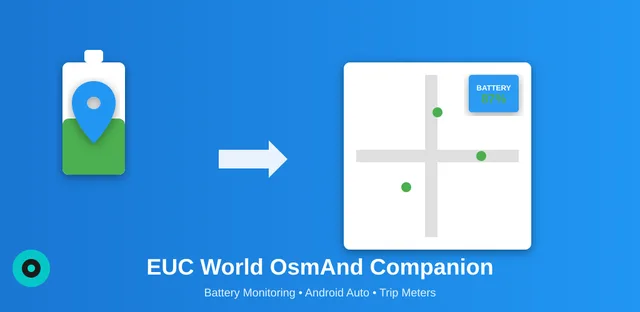
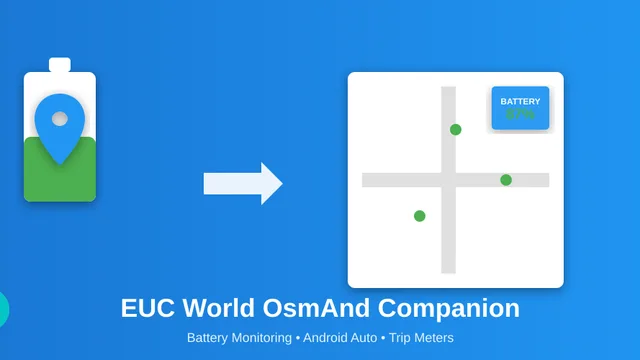
fix: normalise band images to 16:9 and record real sizes

diff --git a/a42r_site/images.py b/a42r_site/images.py
@@ -4,7 +4,7 @@ from __future__ import annotations
 from pathlib import Path
 from xml.sax.saxutils import escape
 
-from PIL import Image
+from PIL import Image, ImageOps
 
 _BASE = "/home/philg/src/AndroidStudioProjects/"
 
@@ -19,33 +19,56 @@ IMAGE_SOURCES: dict[str, str] = {
 }
 
 
-def _flatten(im: Image.Image) -> Image.Image:
-    """Convert to RGB, compositing any transparency onto white."""
+def _flatten(im: Image.Image, bg: str = "#ffffff") -> Image.Image:
+    """Convert to RGB, compositing any transparency onto bg."""
     if im.mode in ("RGBA", "LA") or (im.mode == "P" and "transparency" in im.info):
         rgba = im.convert("RGBA")
-        bg = Image.new("RGB", rgba.size, "white")
+        bg = Image.new("RGB", rgba.size, bg)
         bg.paste(rgba, mask=rgba.getchannel("A"))
         return bg
     return im.convert("RGB")
 
 
-def _fit(im: Image.Image, width: int) -> Image.Image:
-    if im.width <= width:
-        return im.copy()
-    height = max(1, round(im.height * width / im.width))
-    return im.resize((width, height), Image.LANCZOS)
+def _to_16x9(im: Image.Image, bg: str) -> Image.Image:
+    """Normalise to 16:9: centre-crop landscape, letterbox portrait on bg."""
+    w, h = im.size
+    if w / h >= 1.2:
+        if w * 9 > h * 16:  # wider than 16:9: crop width
+            cw = round(h * 16 / 9)
+            left = (w - cw) // 2
+            return im.crop((left, 0, left + cw, h))
+        ch = round(w * 9 / 16)  # between 1.2 and 16:9: crop height
+        top = (h - ch) // 2
+        return im.crop((0, top, w, top + ch))
+    cw = round(h * 16 / 9)
+    canvas = Image.new("RGB", (cw, h), bg)
+    canvas.paste(im, ((cw - w) // 2, 0))
+    return canvas
 
 
-def import_image(src: Path, dest_dir: Path, base: str) -> None:
+def tint(accent: str, amount: float = 0.15) -> str:
+    """Mix `amount` of accent into white, returned as #rrggbb."""
+    rgb = [int(accent[i : i + 2], 16) for i in (1, 3, 5)]
+    return "#" + "".join(f"{round(255 * (1 - amount) + c * amount):02x}" for c in rgb)
+
+
+def import_image(
+    src: Path, dest_dir: Path, base: str, bg: str = "#ffffff"
+) -> dict[str, list[int]]:
     dest_dir = Path(dest_dir)
     dest_dir.mkdir(parents=True, exist_ok=True)
     with Image.open(src) as opened:
-        im = _flatten(opened)
-    small = _fit(im, 640)
-    large = _fit(im, 1280)
+        im = _flatten(ImageOps.exif_transpose(opened), bg)
+    band = _to_16x9(im, bg)
+    lw = min(1280, band.width)
+    lw -= lw % 2
+    lh = round(lw * 9 / 16)
+    small = band.resize((640, 360), Image.LANCZOS)
+    large = band if band.size == (lw, lh) else band.resize((lw, lh), Image.LANCZOS)
     small.save(dest_dir / f"{base}-640.webp", "WEBP", quality=82)
     large.save(dest_dir / f"{base}-1280.webp", "WEBP", quality=82)
     small.save(dest_dir / f"{base}-640.jpg", "JPEG", quality=85, progressive=True)
+    return {"640": [640, 360], "1280": [lw, lh]}
 
 
 def _initials(name: str) -> str:

diff --git a/tests/test_images.py b/tests/test_images.py
@@ -1,26 +1,46 @@
+import json
 from pathlib import Path
 
 from PIL import Image
 
 from a42r_site.data import load_site
-from a42r_site.images import import_image, monogram_svg
+from a42r_site.images import import_image, monogram_svg, tint
 
 
 def test_import_image_writes_three_sizes(tmp_path):
     src = tmp_path / "s.png"
     Image.new("RGB", (2000, 1000), "red").save(src)
-    import_image(src, tmp_path / "out", "x")
-    assert Image.open(tmp_path / "out/x-640.webp").size == (640, 320)
-    assert Image.open(tmp_path / "out/x-1280.webp").size == (1280, 640)
-    assert (tmp_path / "out/x-640.jpg").exists()
+    sizes = import_image(src, tmp_path / "out", "x")
+    assert Image.open(tmp_path / "out/x-640.webp").size == (640, 360)
+    assert Image.open(tmp_path / "out/x-1280.webp").size == (1280, 720)
+    assert Image.open(tmp_path / "out/x-640.jpg").size == (640, 360)
+    assert sizes == {"640": [640, 360], "1280": [1280, 720]}
 
 
 def test_import_never_upscales(tmp_path):
     src = tmp_path / "s.png"
     Image.new("RGB", (1024, 500), "red").save(src)
-    import_image(src, tmp_path / "out", "x")
-    assert Image.open(tmp_path / "out/x-1280.webp").size == (1024, 500)
-    assert Image.open(tmp_path / "out/x-640.webp").size == (640, 312)
+    sizes = import_image(src, tmp_path / "out", "x")
+    w, h = Image.open(tmp_path / "out/x-1280.webp").size
+    assert w <= 1024 and w % 2 == 0 and h == round(w * 9 / 16)
+    assert sizes["1280"] == [w, h]
+    assert Image.open(tmp_path / "out/x-640.webp").size == (640, 360)
+
+
+def test_portrait_letterboxed_on_tint(tmp_path):
+    src = tmp_path / "s.png"
+    Image.new("RGB", (1080, 2400), "black").save(src)
+    bg = tint("#1565c0")
+    import_image(src, tmp_path / "out", "x", bg=bg)
+    im = Image.open(tmp_path / "out/x-640.jpg")
+    assert im.size == (640, 360)
+    want = tuple(int(bg[i : i + 2], 16) for i in (1, 3, 5))
+    assert all(abs(a - b) <= 3 for a, b in zip(im.getpixel((2, 2)), want))
+    assert sum(im.getpixel((320, 180))) < 40  # screenshot centred
+
+
+def test_tint():
+    assert tint("#000000") == "#d9d9d9"
 
 
 def test_import_alpha_flattened_for_jpeg(tmp_path):
@@ -53,3 +73,12 @@ def test_every_live_image_present():
         if p.image:
             for suf in ("-640.webp", "-1280.webp", "-640.jpg"):
                 assert Path(f"site/static/img/{p.image}{suf}").exists()
+
+
+def test_sizes_json_matches_files():
+    img = Path("site/static/img")
+    sizes = json.loads((img / "sizes.json").read_text())
+    for p in load_site(Path("site/projects.yaml")).projects:
+        if p.image:
+            assert Image.open(img / f"{p.image}-640.webp").size == tuple(sizes[p.image]["640"])
+            assert Image.open(img / f"{p.image}-1280.webp").size == tuple(sizes[p.image]["1280"])

diff --git a/scripts/import_images.py b/scripts/import_images.py
@@ -1,5 +1,6 @@
 #!/usr/bin/env python3
-"""Import every IMAGE_SOURCES entry into site/static/img."""
+"""Import every IMAGE_SOURCES entry into site/static/img and write sizes.json."""
+import json
 import sys
 import tempfile
 import urllib.request
@@ -8,24 +9,30 @@ from pathlib import Path
 ROOT = Path(__file__).resolve().parent.parent
 sys.path.insert(0, str(ROOT))
 
-from a42r_site.images import IMAGE_SOURCES, import_image  # noqa: E402
+from a42r_site.data import load_site  # noqa: E402
+from a42r_site.images import IMAGE_SOURCES, import_image, tint  # noqa: E402
 
 DEST = ROOT / "site" / "static" / "img"
 
 
 def main() -> None:
+    accents = {p.image: p.accent for p in load_site(ROOT / "site" / "projects.yaml").projects if p.image}
+    sizes: dict[str, dict[str, list[int]]] = {}
     for base, source in IMAGE_SOURCES.items():
+        bg = tint(accents[base]) if base in accents else "#ffffff"
         if source.startswith("https://"):
-            tmp = Path(tempfile.mkdtemp())
-            src = tmp / "download"
-            req = urllib.request.Request(source, headers={"User-Agent": "a42r-import/1"})
-            with urllib.request.urlopen(req, timeout=30) as r:
-                src.write_bytes(r.read())
+            with tempfile.TemporaryDirectory() as tmp:
+                src = Path(tmp) / "download"
+                req = urllib.request.Request(source, headers={"User-Agent": "a42r-import/1"})
+                with urllib.request.urlopen(req, timeout=30) as r:
+                    src.write_bytes(r.read())
+                sizes[base] = import_image(src, DEST, base, bg=bg)
         else:
-            src = Path(source)
-        import_image(src, DEST, base)
+            sizes[base] = import_image(Path(source), DEST, base, bg=bg)
         for suf in ("-640.webp", "-1280.webp", "-640.jpg"):
             print(DEST / f"{base}{suf}")
+    (DEST / "sizes.json").write_text(json.dumps(sizes, indent=2, sort_keys=True) + "\n")
+    print(DEST / "sizes.json")
 
 
 if __name__ == "__main__":
